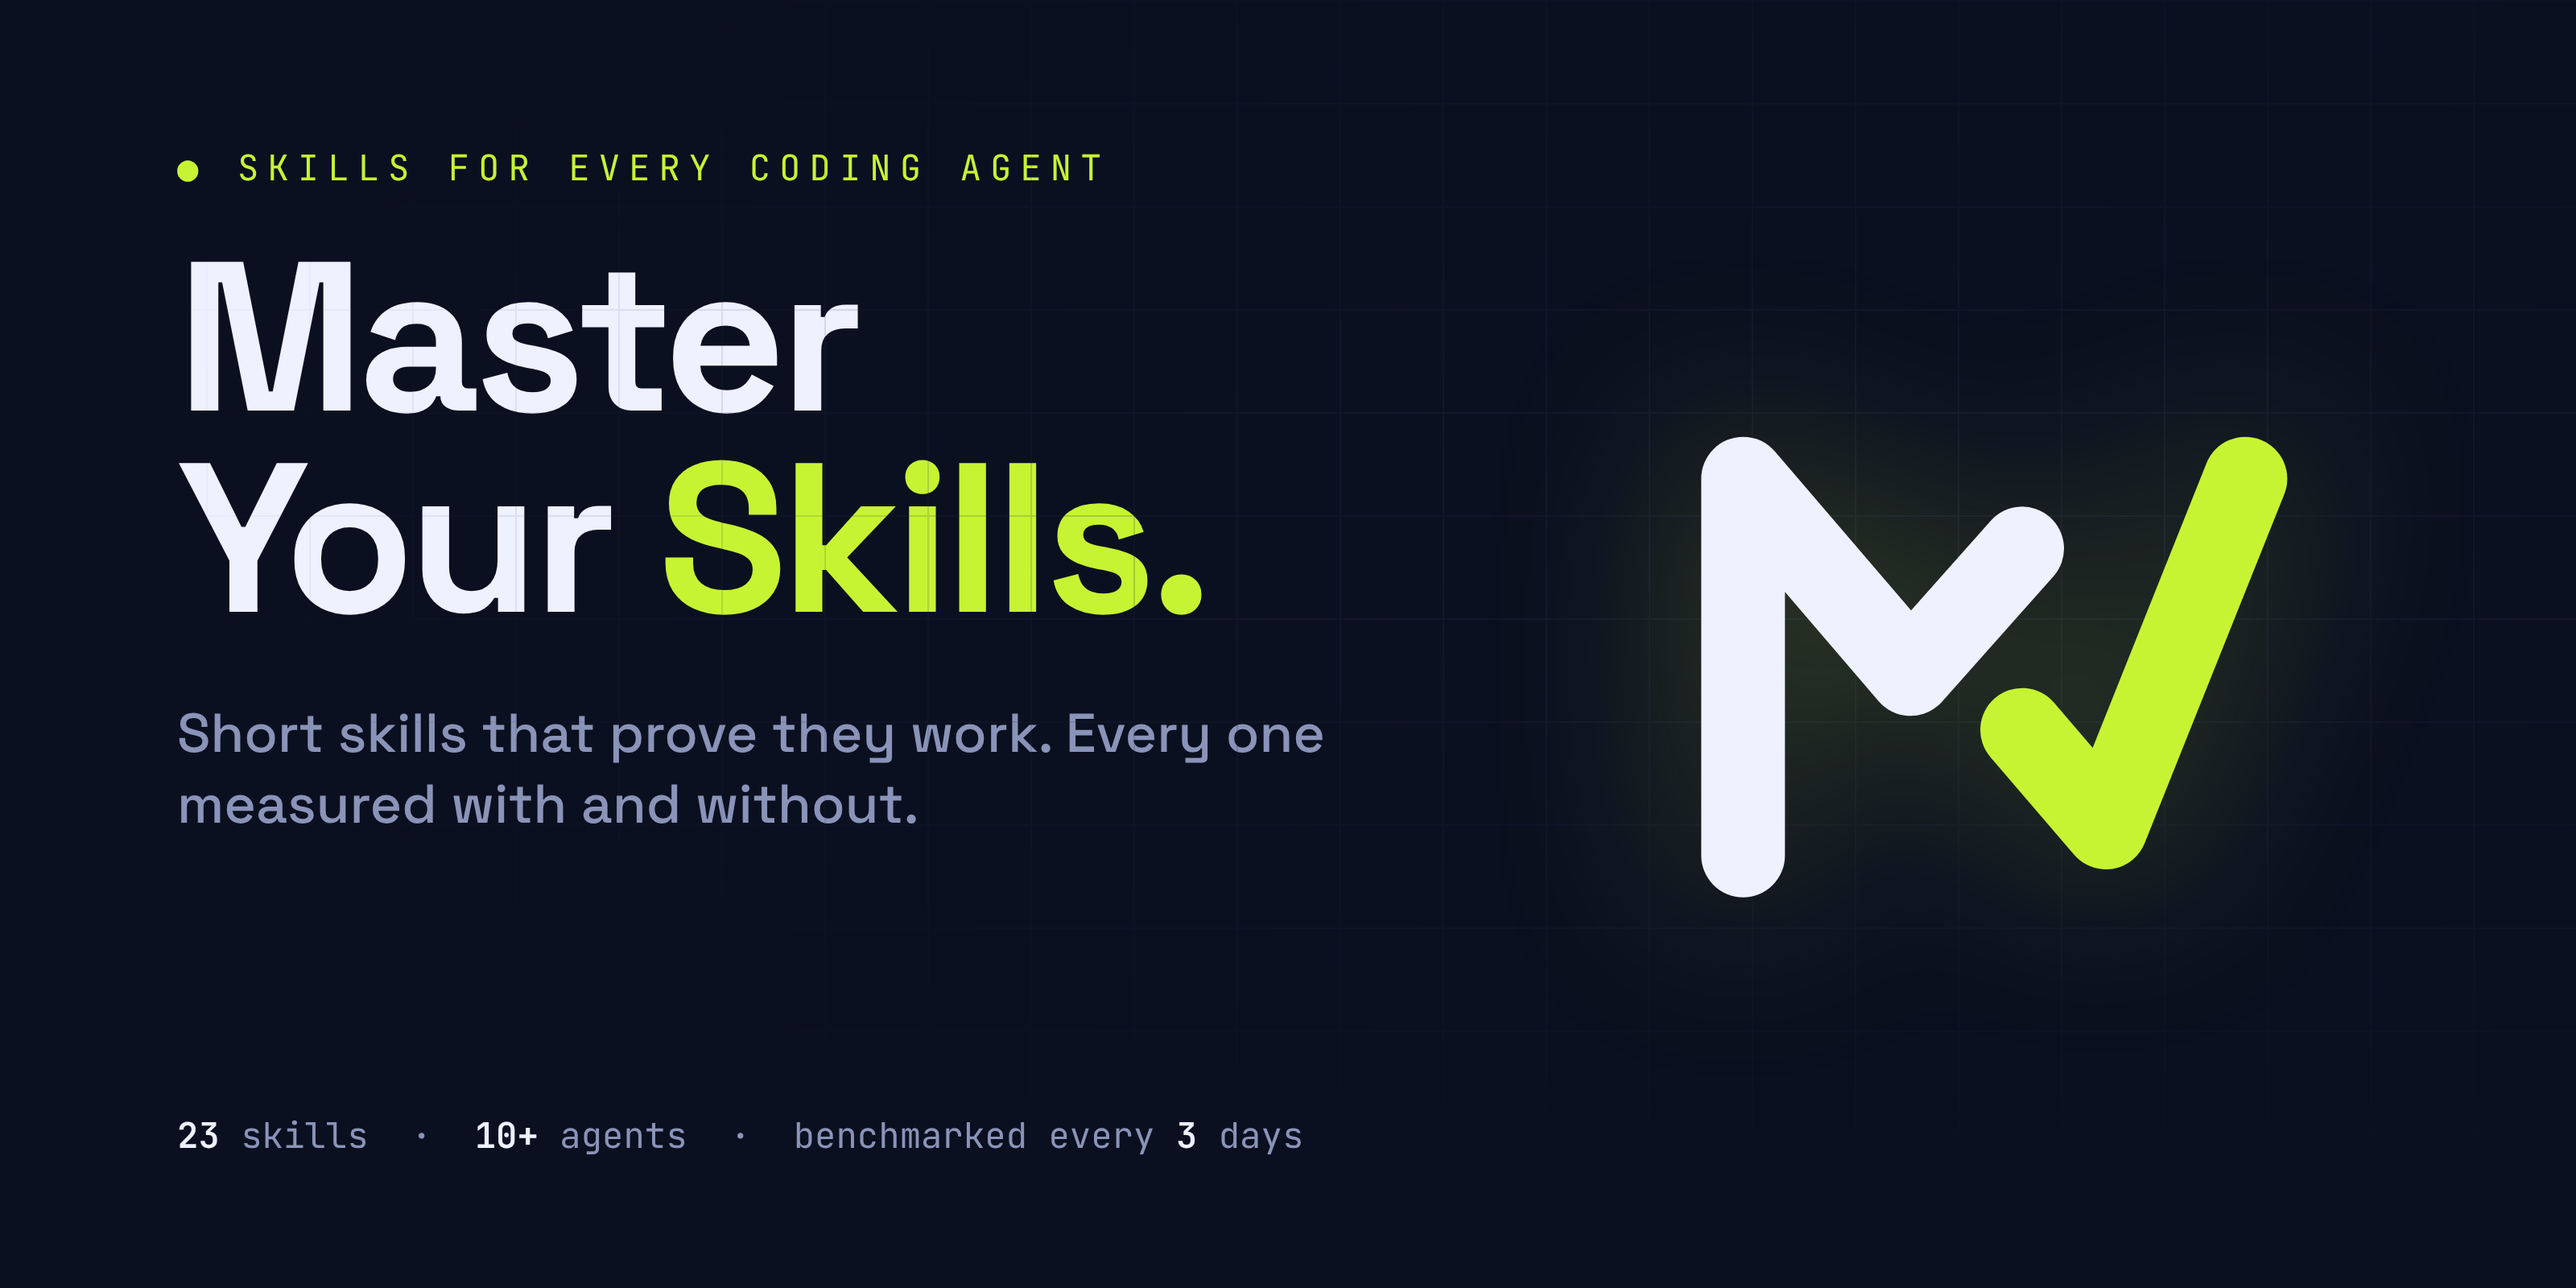
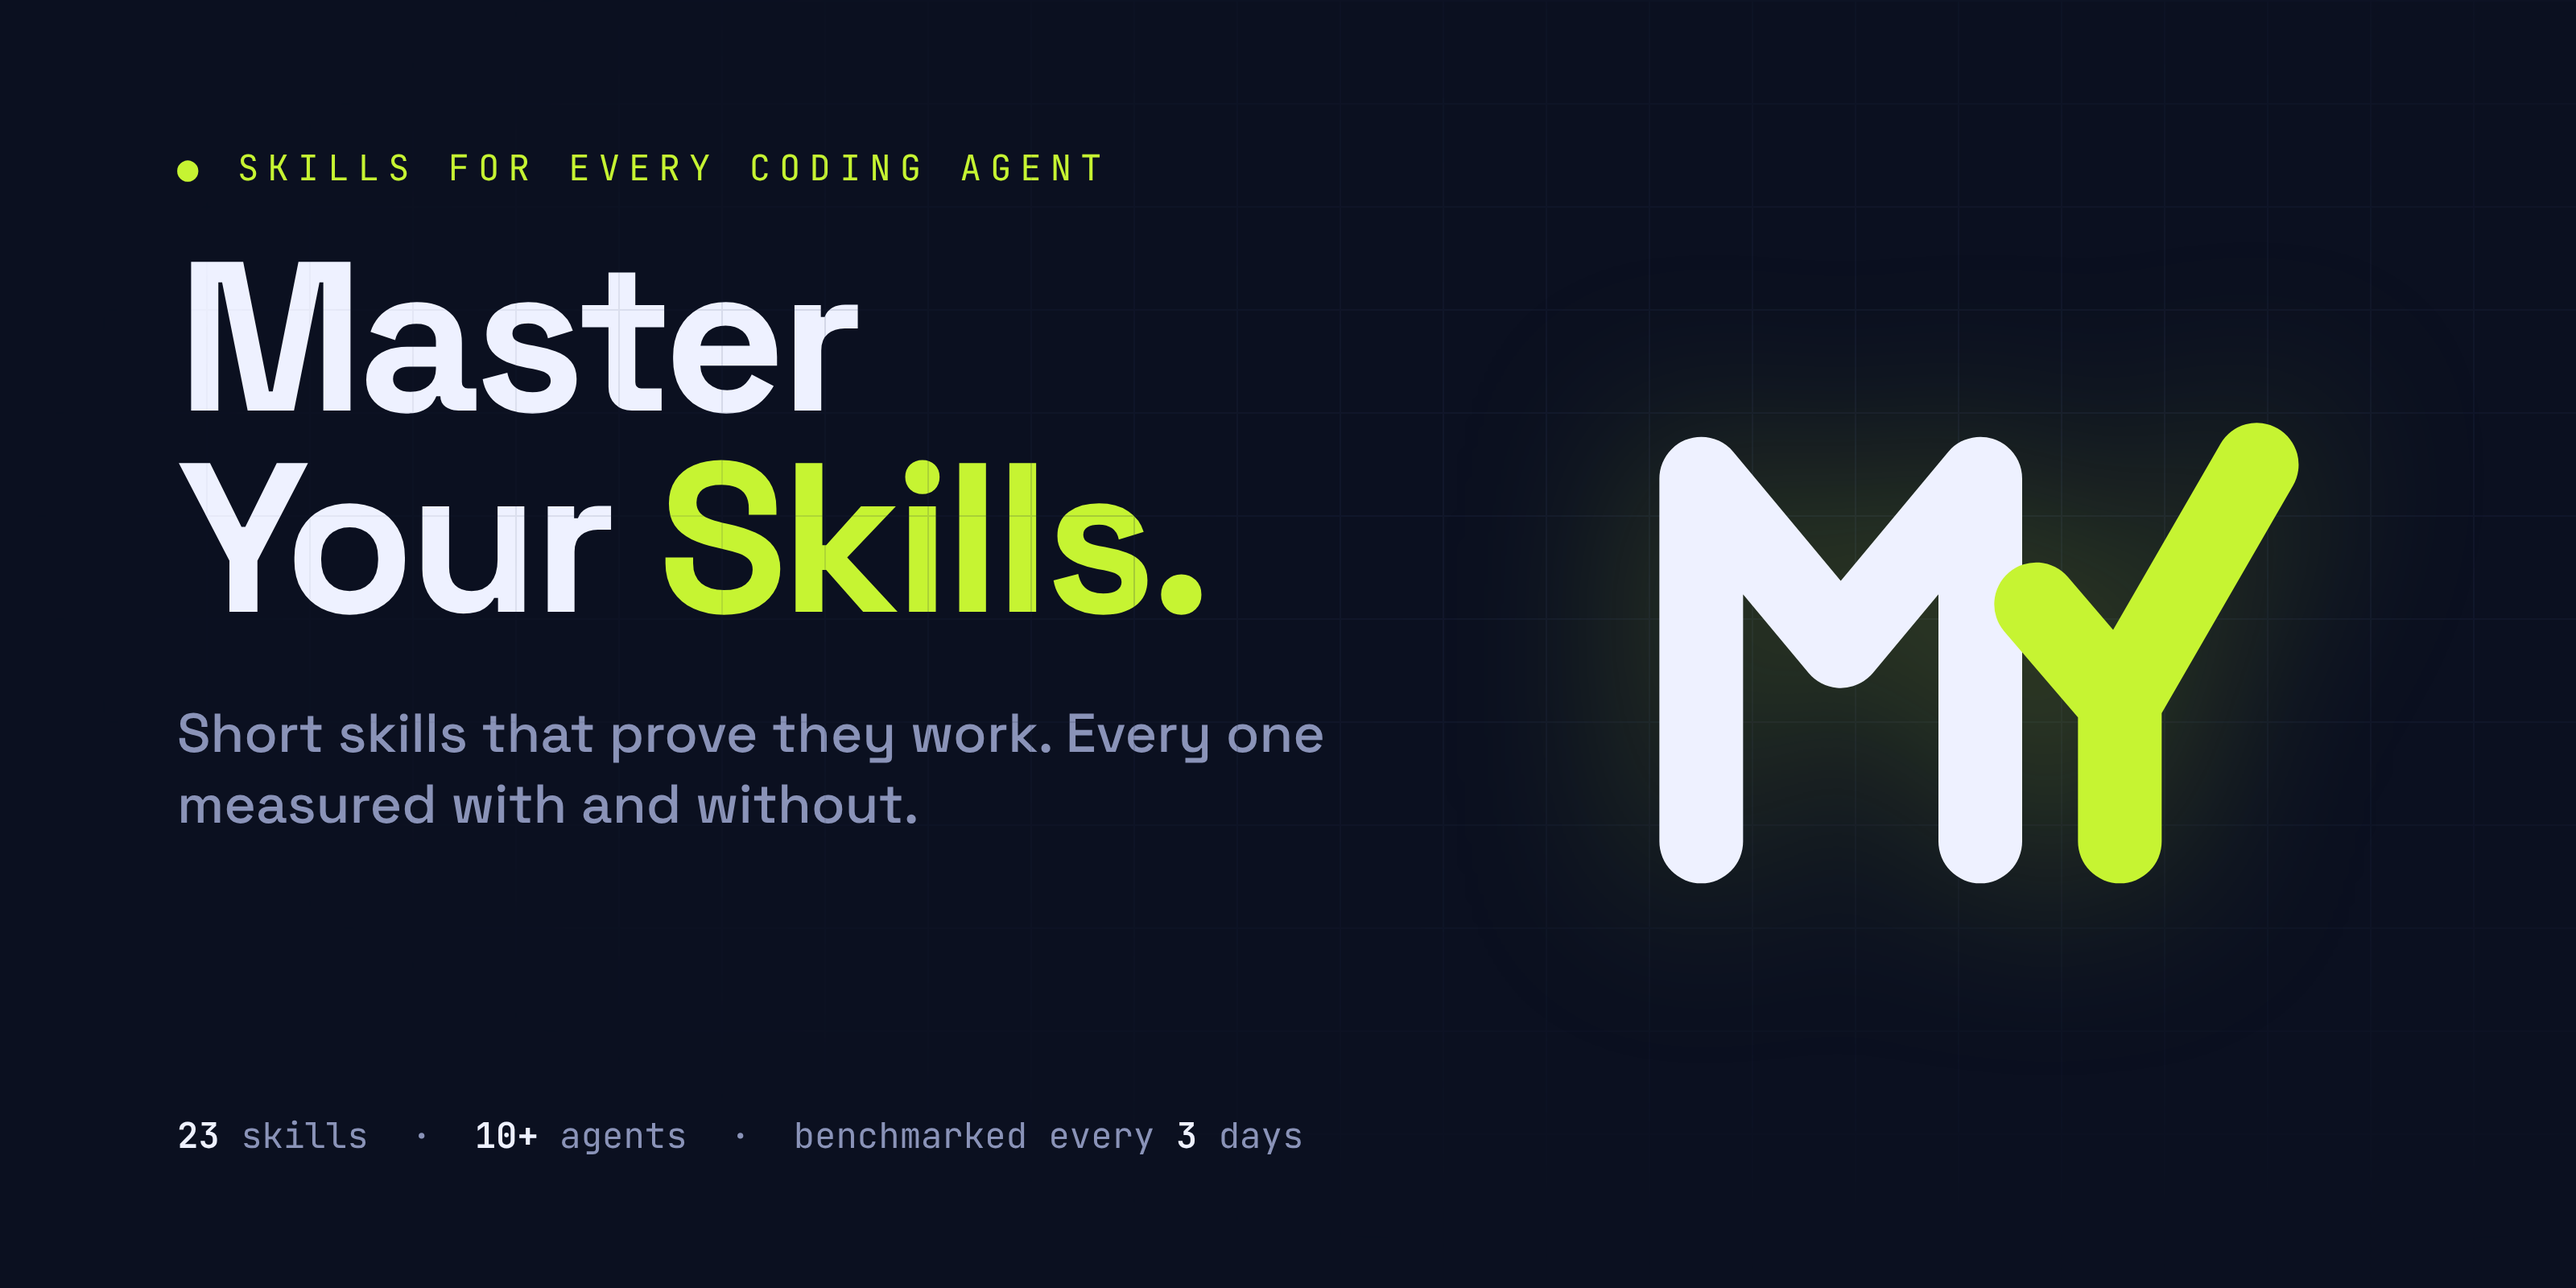
brand: MY monogram with the Y as a check
Claude-Session: https://claude.ai/code/session_01MhdcU1wu3qNtnw5sD71sQn

Changed region(s): [[0.625, 0.3125, 0.875, 0.7188], [0.8438, 0.3125, 0.9062, 0.375]]

diff --git a/brand/hero.html b/brand/hero.html
@@ -20,5 +20,5 @@ p{font-size:34px;color:var(--muted);margin:36px 0 0;max-width:820px;line-height:
 <h1>Master<br>Your <span>Skills.</span></h1>
 <p>Short skills that prove they work. Every one measured with and without.</p>
 <div class="foot"><b>23</b> skills &nbsp;·&nbsp; <b>10+</b> agents &nbsp;·&nbsp; benchmarked every <b>3</b> days</div>
-<svg class="mark" viewBox="0 0 120 120"><path d="M26 88 V34 L50 62 L66 44" fill="none" stroke="#EEF1FF" stroke-width="12" stroke-linecap="round" stroke-linejoin="round"/><path d="M66 70 L78 84 L98 34" fill="none" stroke="#C6F432" stroke-width="12" stroke-linecap="round" stroke-linejoin="round"/></svg>
+<svg class="mark" viewBox="0 0 120 120"><path d="M20 86 V34 L40 58 L60 34 V86" fill="none" stroke="#EEF1FF" stroke-width="12" stroke-linecap="round" stroke-linejoin="round"/><path d="M68 52 L80 66 L99.63 32 M80 66 V86" fill="none" stroke="#C6F432" stroke-width="12" stroke-linecap="round" stroke-linejoin="round"/></svg>
 </div></body></html>
